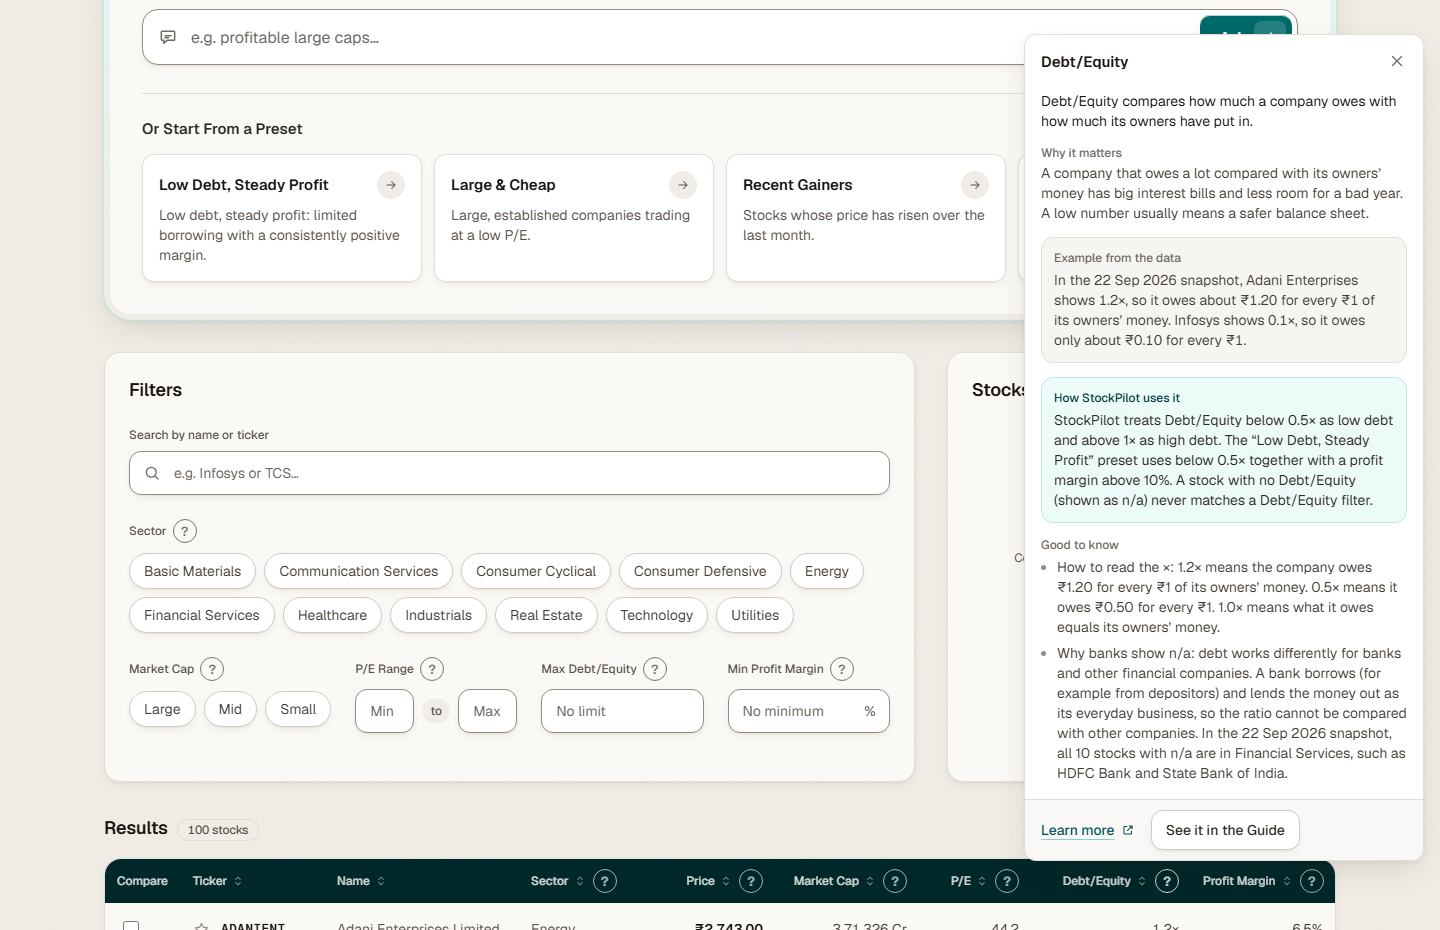
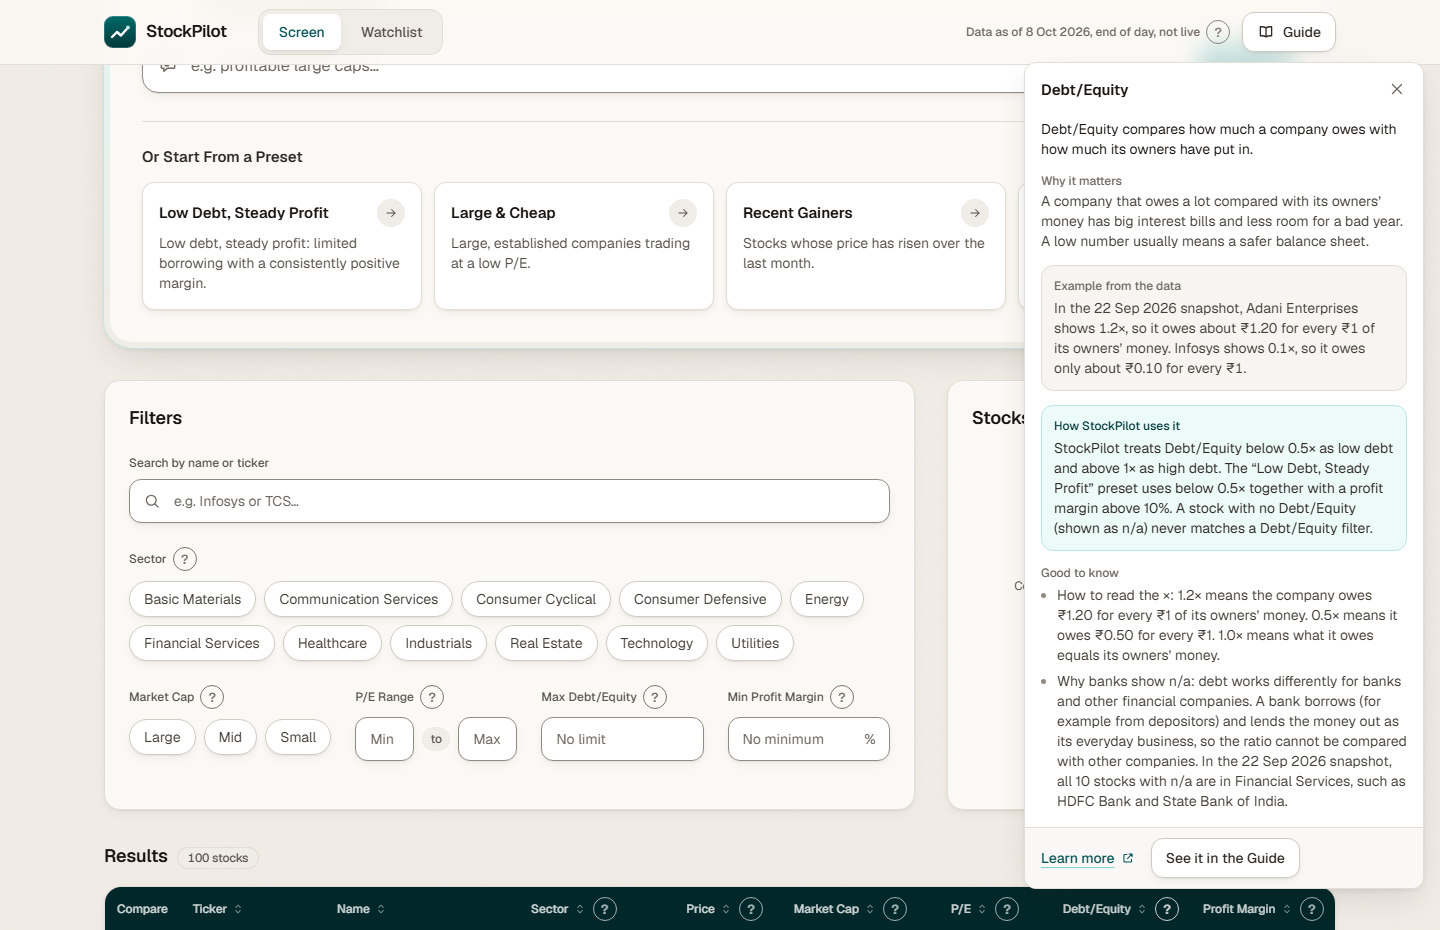
docs: retake README screenshots after UI polish fixes

diff --git a/README.md b/README.md
@@ -12,7 +12,7 @@ The app runs on free hosting that sleeps after inactivity, so the first load can
 
 | | |
 | --- | --- |
-| ![Screener results table with the "Data as of 7 Oct 2026, end of day, not live" header](docs/screenshots/01-screener.png) | ![Search "low debt tech stocks" turned into two filters, shown as notes and removable chips](docs/screenshots/02-search-filters.png) |
+| ![Screener results table with the "Data as of 8 Oct 2026, end of day, not live" header](docs/screenshots/01-screener.png) | ![Search "low debt tech stocks" turned into two filters, shown as notes and removable chips](docs/screenshots/02-search-filters.png) |
 | **Screener.** Sortable table of all 100 stocks, with the end-of-day date in the header. | **Plain-English filters.** A search becomes visible notes and removable filter chips. |
 | ![The question "what is P/E" answered by the AI helper](docs/screenshots/03-ai-answer.png) | ![The typo "techonolgy stocks" corrected, with a "Showing results for" line](docs/screenshots/04-typo-and-help.png) |
 | **AI answer.** Questions get a short plain-text answer (this one was served from the answer cache). | **Typo tolerance.** The corrected query is shown above the filters it produced. |
